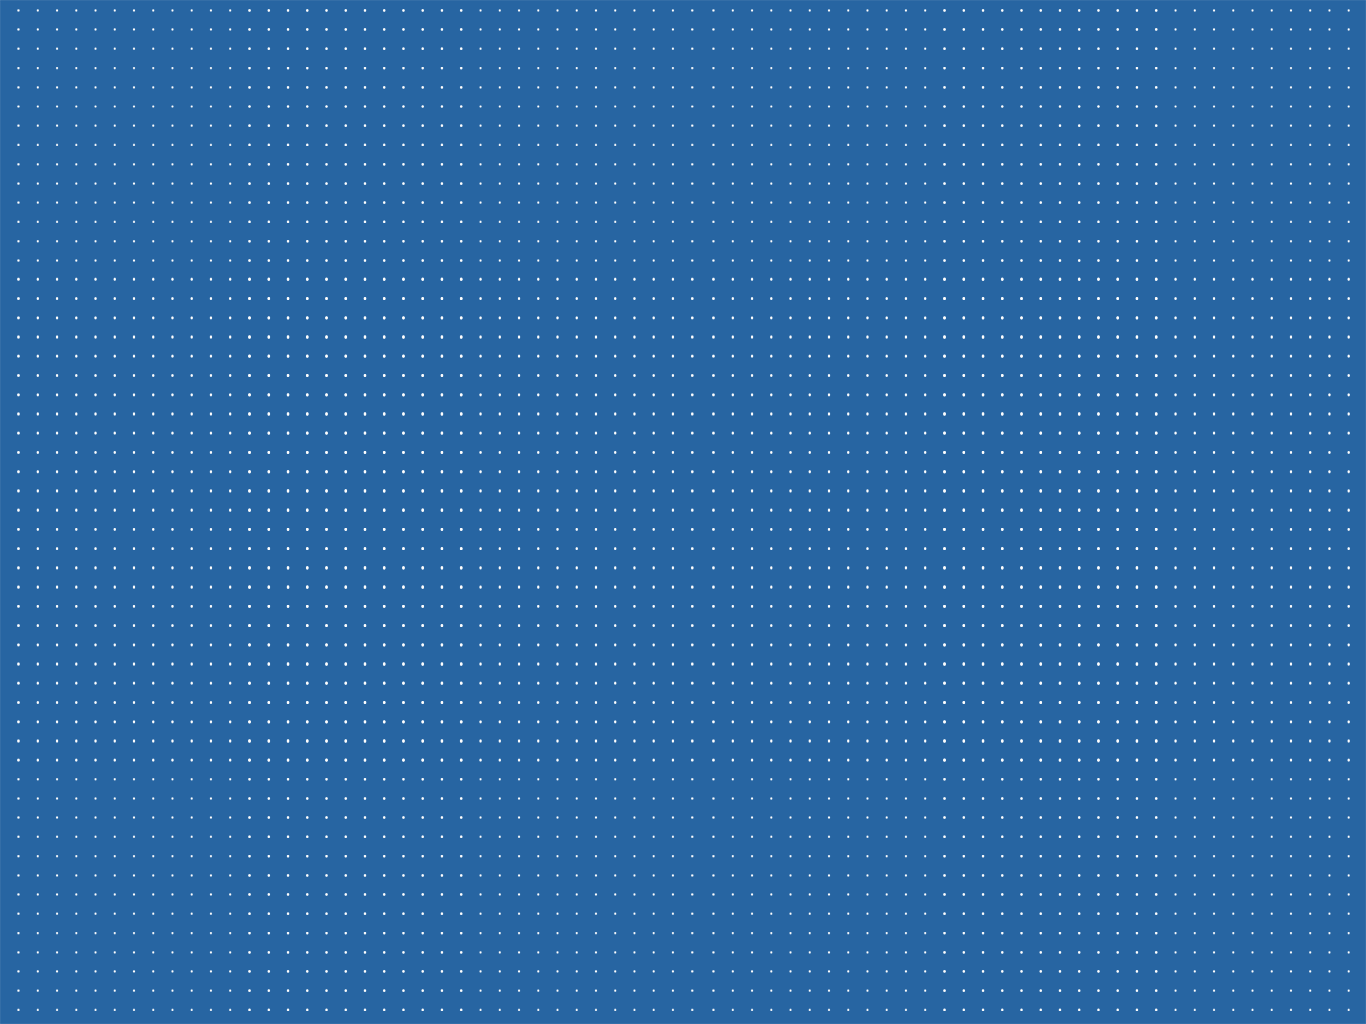
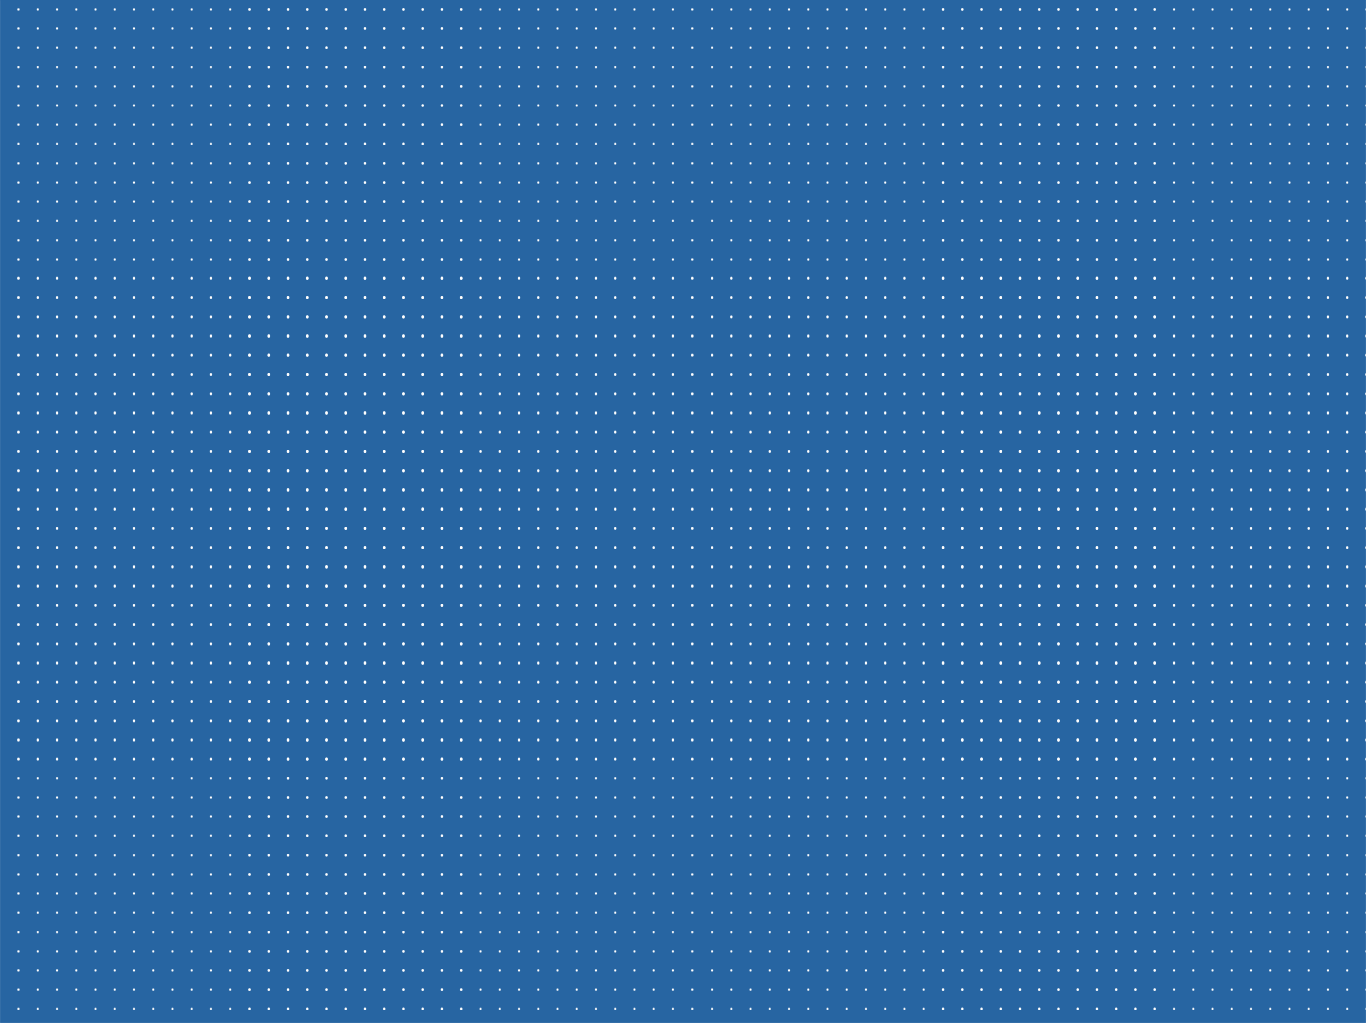
색상변ㄱㅇ

diff --git a/css/index.css b/css/index.css
@@ -168,7 +168,7 @@ opacity:1;
     background: url(images/btnStart.png);
     background-repeat: no-repeat;
     background-position: 58px 45px;
-    border: 2px solid #2c679e;
+    border: 2px solid #2765a2;
 }
 
 #greeting.active #startScene2{
@@ -575,7 +575,7 @@ section.exam article.qna h2:before{
 	width:50px;
 	height:4px;
 	margin-bottom:10px;
-	background:#2c679e;
+	background:#2765a2;
 }
 
 section.exam article.qna h2{
@@ -1067,7 +1067,7 @@ section#C9 button.btnNext{
     background: url(images/btnEnd.png);
     background-repeat: no-repeat;
     background-position: 58px 45px;
-    border: 2px solid #2c679e;
+    border: 2px solid #2765a2;
 }
 
 #end.active #backtoStart{
